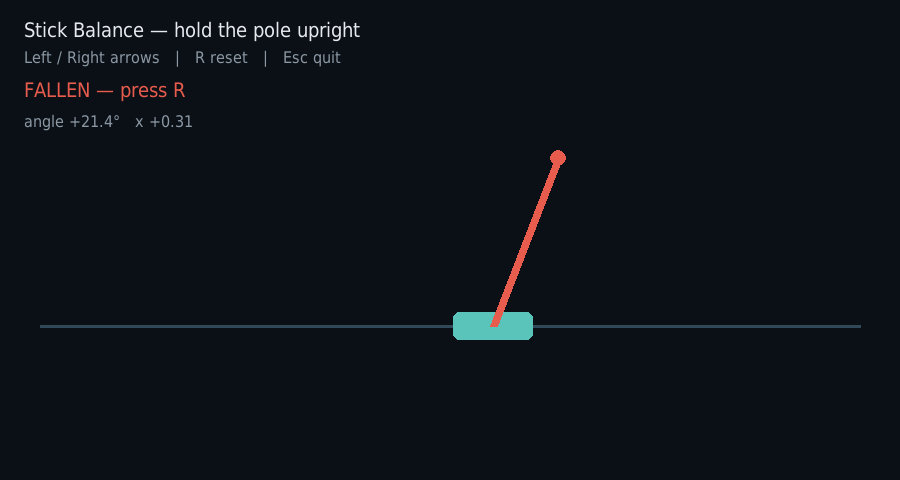
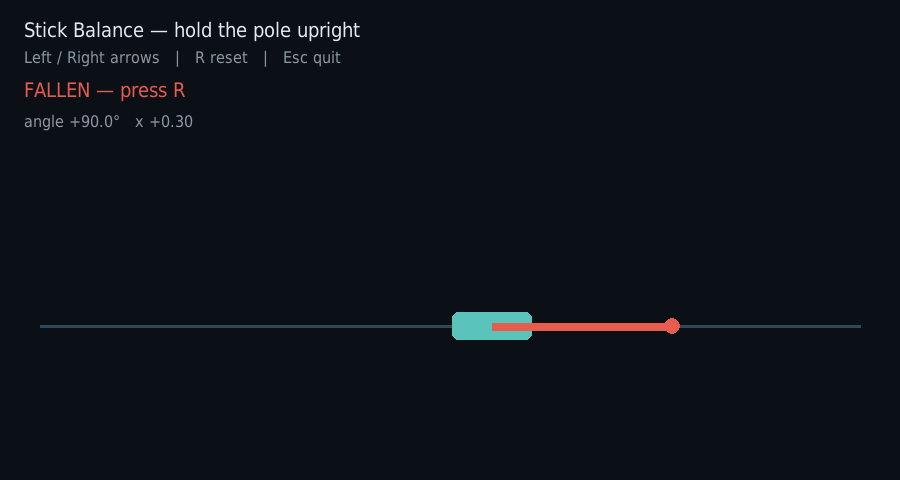
feat: keep fallen simulation running at 90 degrees

diff --git a/tests/test_physics.py b/tests/test_physics.py
@@ -1,3 +1,5 @@
+from math import radians
+
 from stick_balance.physics import Action, CartPoleEnv, PoleState
 
 
@@ -27,12 +29,32 @@ def test_left_force_moves_cart_left():
     assert env.state.x < -0.05
 
 
-def test_large_angle_is_fallen():
+def test_pole_can_fall_until_horizontal():
     env = CartPoleEnv(seed=0)
     env.reset()
-    env.state = PoleState(x=0.0, x_dot=0.0, theta=0.5, theta_dot=0.0)
+    env.state = PoleState(x=0.0, x_dot=0.0, theta=radians(89), theta_dot=0.0)
+    _, _, done = env.step(Action.NONE)
+    assert done is False
+
+    env.state = PoleState(x=0.0, x_dot=0.0, theta=radians(90), theta_dot=0.0)
     _, _, done = env.step(Action.NONE)
     assert done is True
+
+
+def test_cart_position_does_not_end_run_before_pole_is_horizontal():
+    env = CartPoleEnv(seed=0)
+    env.state = PoleState(x=env.x_limit + 1.0, x_dot=0.0, theta=0.0, theta_dot=0.0)
+    _, _, done = env.step(Action.NONE)
+    assert done is False
+
+
+def test_physics_keeps_advancing_with_no_input_after_fall():
+    env = CartPoleEnv(seed=0)
+    env.state = PoleState(x=0.0, x_dot=0.0, theta=radians(90), theta_dot=1.0)
+    before = env.state
+    after, _, done = env.step(Action.NONE)
+    assert done is True
+    assert after != before
 
 
 def test_upright_idle_is_not_immediately_done():

diff --git a/src/stick_balance/game.py b/src/stick_balance/game.py
@@ -8,6 +8,16 @@ from stick_balance.physics import Action, CartPoleEnv
 from stick_balance.render import draw, init_display
 
 
+def advance_frame(env: CartPoleEnv, action: Action, done: bool) -> tuple[int, bool]:
+    """Advance one frame; a fallen run keeps simulating with controls locked."""
+    if done:
+        env.step(Action.NONE)
+        return 0, True
+
+    _, reward, fell = env.step(action)
+    return int(reward), fell
+
+
 def main() -> None:
     headless = "--headless" in sys.argv
     screen = init_display(headless=headless)
@@ -38,9 +48,8 @@ def main() -> None:
         elif keys[pygame.K_RIGHT] or keys[pygame.K_d]:
             action = Action.RIGHT
 
-        if not done:
-            _, reward, done = env.step(action)
-            score += int(reward)
+        gained, done = advance_frame(env, action, done)
+        score += gained
 
         draw(screen, env, score=score, done=done)
         pygame.display.flip()

diff --git a/src/stick_balance/physics.py b/src/stick_balance/physics.py
@@ -2,7 +2,7 @@ from __future__ import annotations
 
 from dataclasses import dataclass
 from enum import IntEnum
-from math import cos, sin
+from math import cos, pi, sin
 import random
 
 
@@ -30,7 +30,8 @@ class CartPoleEnv:
     force_mag = 10.0
     dt = 0.02
     x_limit = 2.4
-    theta_limit = 12 * 2 * 3.141592653589793 / 360
+    # A run is lost only once the pole reaches horizontal (90 degrees).
+    theta_limit = pi / 2
 
     def __init__(self, seed: int | None = None) -> None:
         self._rng = random.Random(seed)
@@ -69,6 +70,6 @@ class CartPoleEnv:
         theta_dot = theta_dot + self.dt * thetaacc
         self.state = PoleState(x, x_dot, theta, theta_dot)
 
-        done = abs(x) > self.x_limit or abs(theta) > self.theta_limit
+        done = abs(theta) >= self.theta_limit
         reward = 0.0 if done else 1.0
         return self.state, reward, done

diff --git a/tests/test_game.py b/tests/test_game.py
@@ -1,0 +1,21 @@
+from math import radians
+
+from stick_balance.game import advance_frame
+from stick_balance.physics import Action, CartPoleEnv, PoleState
+
+
+def test_fallen_run_keeps_simulating_but_ignores_player_input():
+    start = PoleState(x=0.0, x_dot=0.0, theta=radians(90), theta_dot=1.0)
+    left = CartPoleEnv(seed=0)
+    right = CartPoleEnv(seed=0)
+    left.state = start
+    right.state = start
+
+    left_score, left_done = advance_frame(left, Action.LEFT, done=True)
+    right_score, right_done = advance_frame(right, Action.RIGHT, done=True)
+
+    assert left_done is True
+    assert right_done is True
+    assert left_score == right_score == 0
+    assert left.state == right.state
+    assert left.state != start

diff --git a/src/stick_balance/screenshots.py b/src/stick_balance/screenshots.py
@@ -1,5 +1,6 @@
 from __future__ import annotations
 
+from math import radians
 from pathlib import Path
 
 from stick_balance.physics import Action, CartPoleEnv, PoleState
@@ -27,8 +28,7 @@ def main() -> list[Path]:
     p2 = out / "02-correcting.png"
     snapshot(str(p2), env.state, score=score, done=done)
 
-    env.state = PoleState(x=0.3, x_dot=0.4, theta=0.35, theta_dot=1.2)
-    _, _, done = env.step(Action.NONE)
+    env.state = PoleState(x=0.3, x_dot=0.4, theta=radians(90), theta_dot=1.2)
     p3 = out / "03-fallen.png"
     snapshot(str(p3), env.state, score=score, done=True)
 

diff --git a/README.md b/README.md
@@ -13,7 +13,7 @@ pip install pygame numpy pytest
 PYTHONPATH=src python -m stick_balance.game
 ```
 
-Keys: `←` / `→` or `A` / `D` to push the cart. `R` resets. `Esc` quits.
+Keys: `←` / `→` or `A` / `D` to push the cart. The run ends when the pole reaches 90° (horizontal). Physics keeps running after a fall, but movement controls stay locked until `R` resets. `Esc` quits.
 
 Headless screenshots:
 
